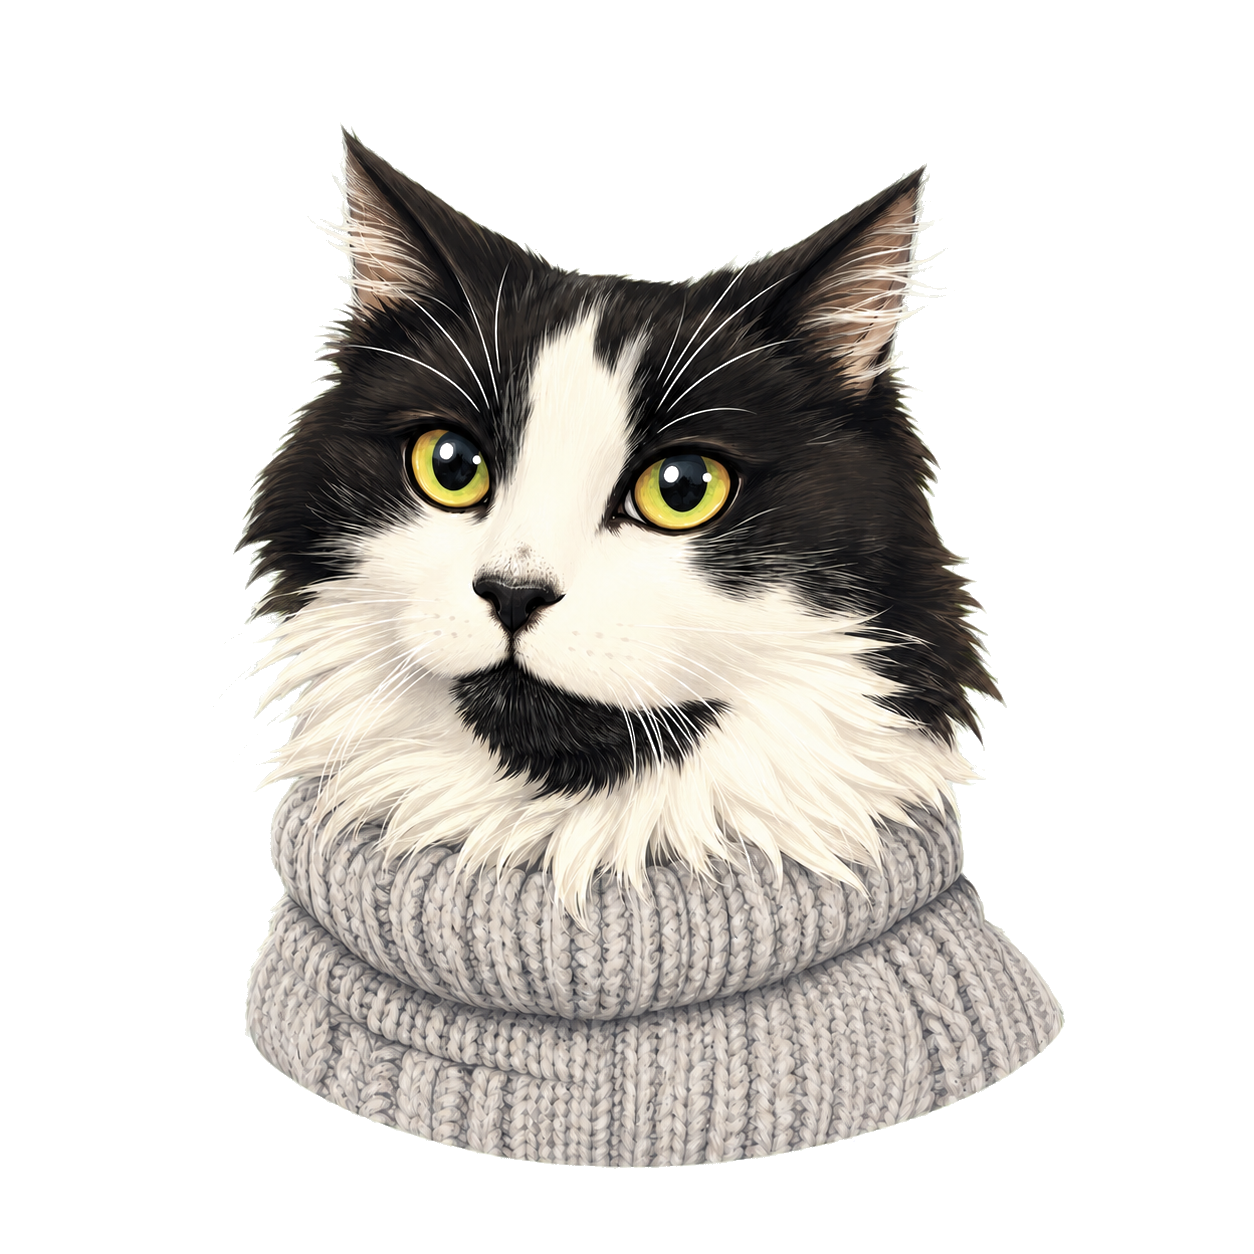
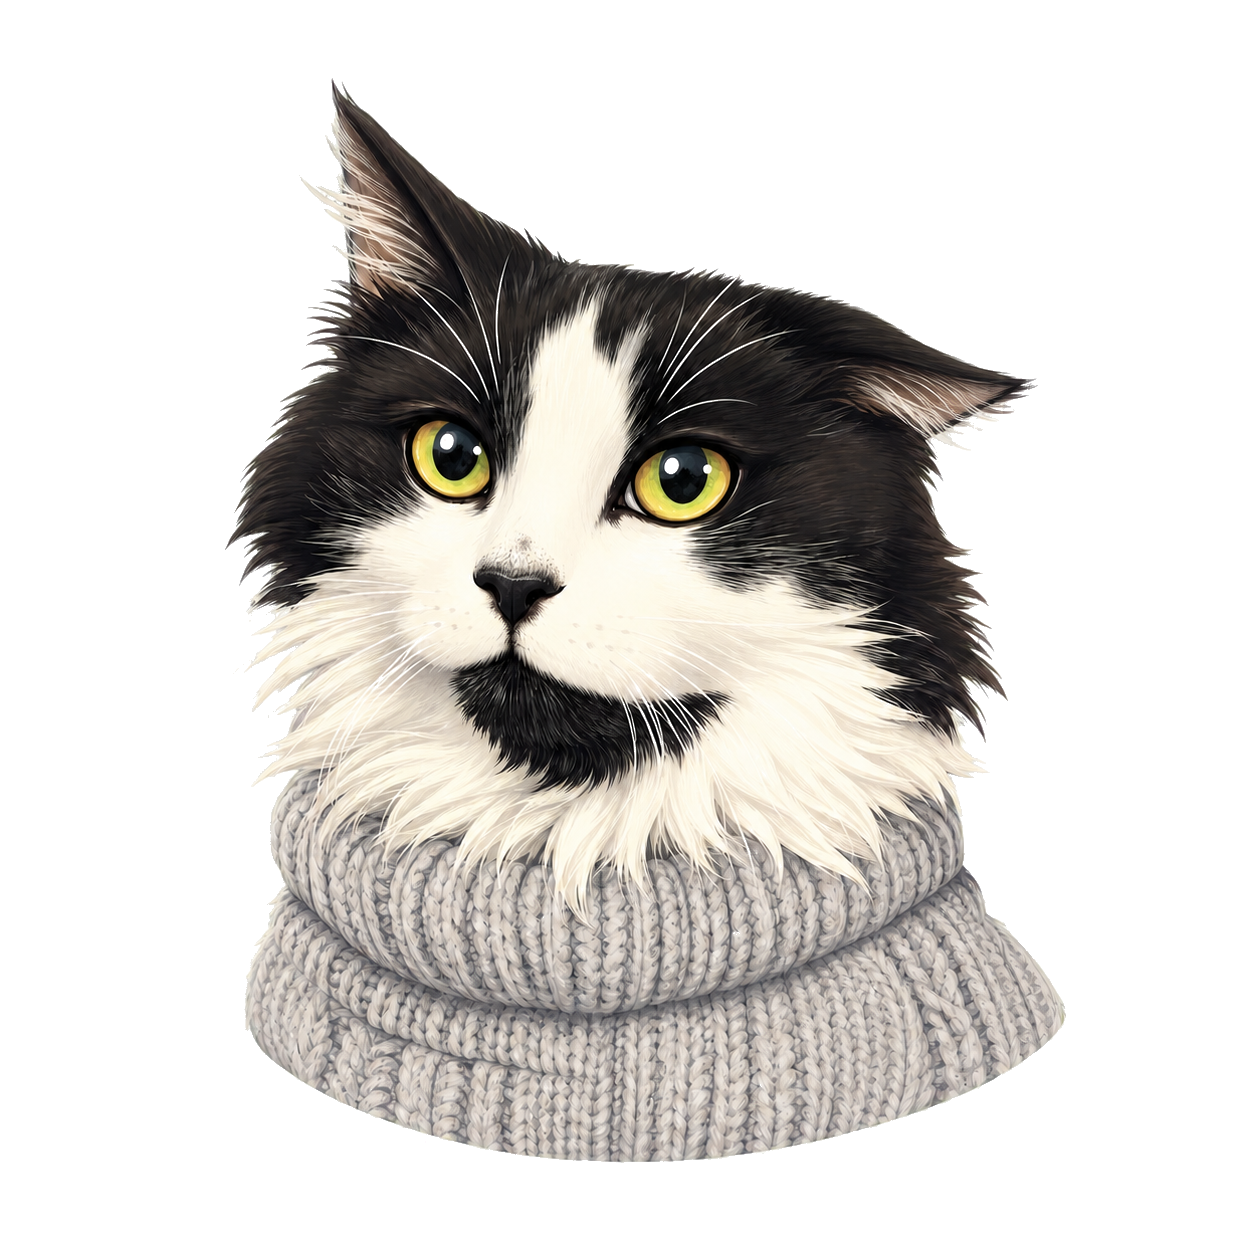
Make ear twitch one-sided and double flick

Changed region(s): [[0.1866, 0.0622, 0.8397, 0.933]]

diff --git a/QuoteCompanion.swift b/QuoteCompanion.swift
@@ -304,7 +304,7 @@ final class QuoteCompanion: NSObject, NSApplicationDelegate {
     private func scheduleStandbyAnimations() {
         idleAnimationTimer?.invalidate()
         idleAnimationTimer = Timer.scheduledTimer(withTimeInterval: 11, repeats: true) { [weak self] _ in
-            self?.playStandbyFrame(self?.idleEarsBackImage, duration: 0.42)
+            self?.playEarTwitch()
         }
         standbyAnimationTimer?.invalidate()
         standbyAnimationTimer = Timer.scheduledTimer(withTimeInterval: 29, repeats: true) { [weak self] _ in
@@ -330,7 +330,40 @@ final class QuoteCompanion: NSObject, NSApplicationDelegate {
             self.companionImageView?.image = self.normalCompanionImage
         }
         idleResetWorkItem = reset
-        DispatchQueue.main.asyncAfter(deadline: .now() + 0.42, execute: reset)
+        DispatchQueue.main.asyncAfter(deadline: .now() + duration, execute: reset)
+    }
+
+    private func playEarTwitch() {
+        guard !dominoIsHovered,
+              !dominoNoseIsHovered,
+              quoteEditorWindow?.isVisible != true,
+              speechWindow?.isVisible != true,
+              let idleEarsBackImage
+        else { return }
+
+        idleResetWorkItem?.cancel()
+        let sequence: [(TimeInterval, NSImage?)] = [
+            (0.00, idleEarsBackImage),
+            (0.16, normalCompanionImage),
+            (0.28, idleEarsBackImage),
+            (0.46, normalCompanionImage)
+        ]
+
+        var finalWorkItem: DispatchWorkItem?
+        for (delay, image) in sequence {
+            let workItem = DispatchWorkItem { [weak self] in
+                guard let self,
+                      !self.dominoIsHovered,
+                      !self.dominoNoseIsHovered,
+                      self.quoteEditorWindow?.isVisible != true,
+                      self.speechWindow?.isVisible != true
+                else { return }
+                self.companionImageView?.image = image
+            }
+            finalWorkItem = workItem
+            DispatchQueue.main.asyncAfter(deadline: .now() + delay, execute: workItem)
+        }
+        idleResetWorkItem = finalWorkItem
     }
 
     private func configureSpeechWindow(relativeTo companionFrame: NSRect) {